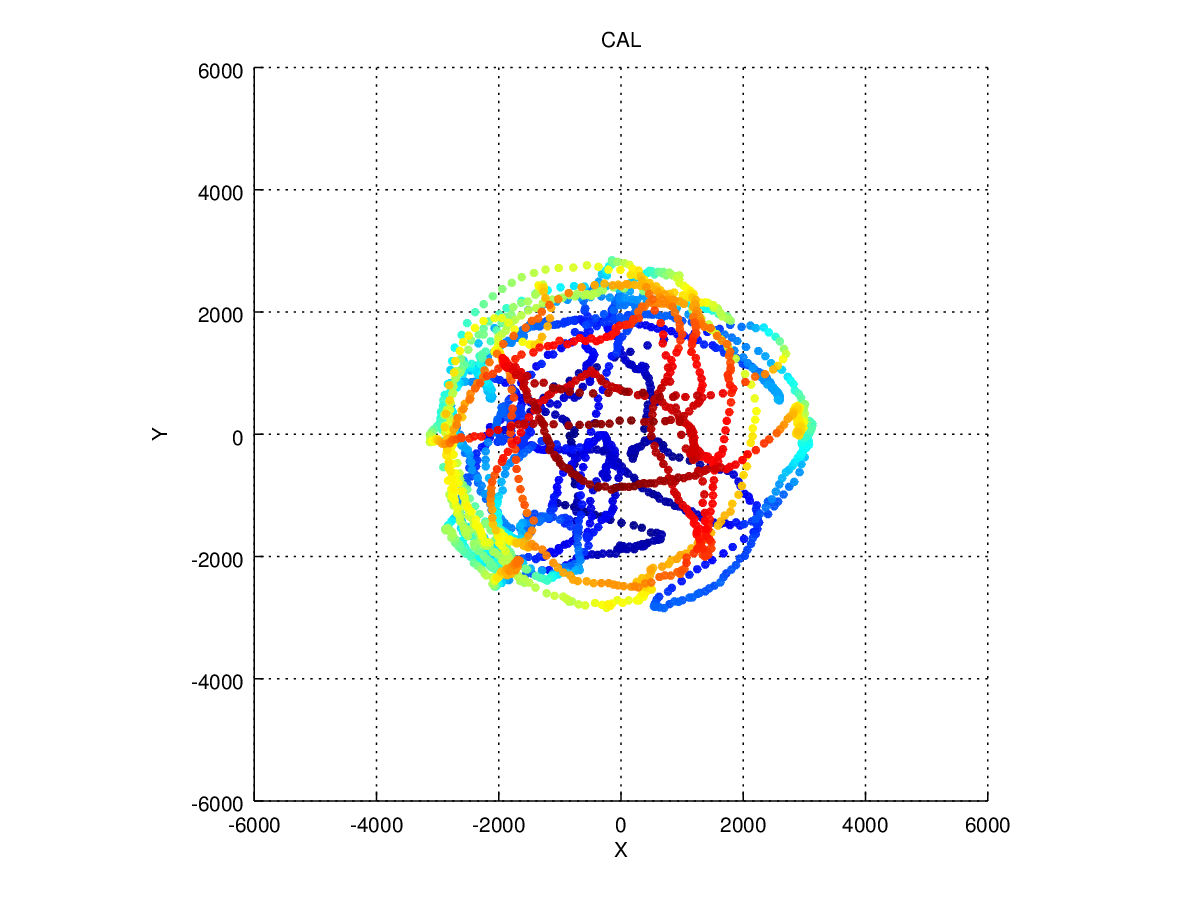
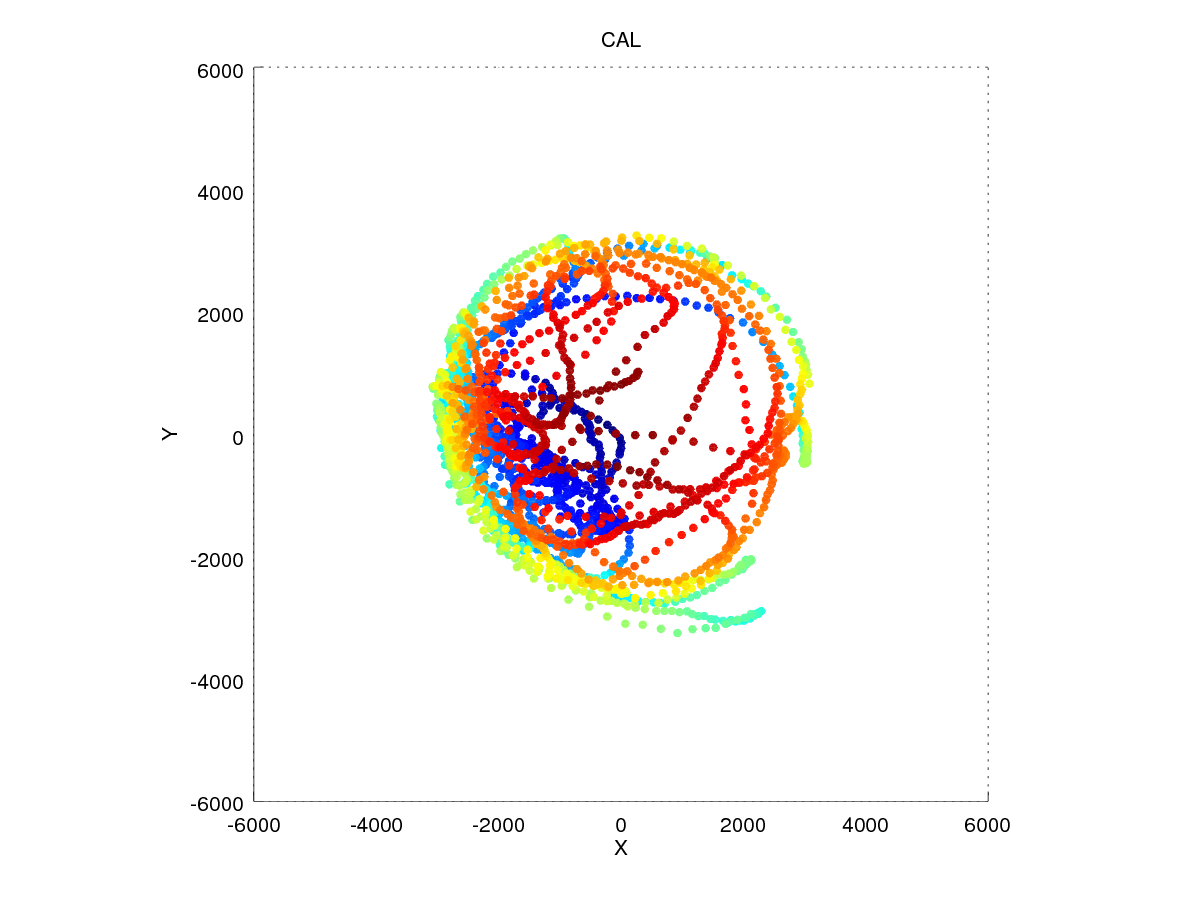
Improved code a bit for Octave and for Python.

diff --git a/magCalOctave/calibrateMag.m b/magCalOctave/calibrateMag.m
@@ -10,7 +10,7 @@ function [ret1, ret2] = calibrateMag(portNr = 0)
        endif
 
 
-       serialPort = serial("\\\\.\\COM5")
+       serialPort = serial("/dev/ttyUSB0")
        pause(1);
 
        set(serialPort, 'baudrate', 115200);
@@ -33,7 +33,7 @@ function [ret1, ret2] = calibrateMag(portNr = 0)
 
               inBufferSTR = ReadToTermination(serialPort);
               inBufferSTR_splitted = strsplit(inBufferSTR, ".");
-              disp(inBufferSTR);
+              % disp(inBufferSTR);
 
               if(size(inBufferSTR_splitted) == [1, 4])
                      if(strcmp(inBufferSTR_splitted{1}, 'MAG') == 0 || strcmp(inBufferSTR_splitted{1}, 'ZMAG') == 0)
@@ -48,7 +48,7 @@ function [ret1, ret2] = calibrateMag(portNr = 0)
        endwhile
        fclose(serialPort);
 
-       disp(notCalibratedData);
+       % disp(notCalibratedData);
        disp('Finished acquiring data.')
 
        AxisLim = 6000;
@@ -78,21 +78,22 @@ function [ret1, ret2] = calibrateMag(portNr = 0)
 
        middleNOCAL = [(xNOCAL_min + xNOCAL_max)/2, (yNOCAL_min + yNOCAL_max)/2, (zNOCAL_min + zNOCAL_max)/2];
        scatter3(middleNOCAL(:,1), middleNOCAL(:,2), middleNOCAL(:,3), 4, [0.4, 1, 0.4], '*');
-       % txt1 = '\leftarrow middle point';
-       % % text(x3,y3,txt3,'HorizontalAlignment','right')
 
-       % meanNOCAL = mean(magDumpNOCAL);
-       % scatter3(meanNOCAL(:,1), meanNOCAL(:,2), meanNOCAL(:,3), 4, [1, 0.4, 0.4], 's');
-       % txt2 = '\leftarrow middle point';
-
-
+       set(gcf(), "visible", "off")
        print -dpng 'imgs/nocal.png';
+       set(gcf(), "visible", "on")
        view([0 0]);
+       set(gcf(), "visible", "off")
        print -dpng 'imgs/nocal_XY.png';
+       set(gcf(), "visible", "on")
        view([90 0]);
+       set(gcf(), "visible", "off")
        print -dpng 'imgs/nocal_XZ.png';
+       set(gcf(), "visible", "on")
        view([0 90]);
+       set(gcf(), "visible", "off")
        print -dpng 'imgs/nocal_YZ.png';
+       set(gcf(), "visible", "on")
 
        calibratedData = notCalibratedData - middleNOCAL(ones(size(notCalibratedData,1),1),:);
        figure(2)
@@ -117,13 +118,21 @@ function [ret1, ret2] = calibrateMag(portNr = 0)
        % yCAL_max = max(yCAL);
        % zCAL_max = max(zCAL);
 
+       set(gcf(), "visible", "off")
        print -dpng 'imgs/cal.png';
+       set(gcf(), "visible", "on")
        view([0 0]);
+       set(gcf(), "visible", "off")
        print -dpng 'imgs/cal_XZ.png';
+       set(gcf(), "visible", "on")
        view([90 0]);
+       set(gcf(), "visible", "off")
        print -dpng 'imgs/cal_YZ.png';
+       set(gcf(), "visible", "on")
        view([0 90]);
+       set(gcf(), "visible", "off")
        print -dpng 'imgs/cal_XY.png';
+       set(gcf(), "visible", "on")
 
        % printf('%020s: %04s:%05d, %04s:%05d, %04s:%05d, %04s:%05d, %04s:%05d, %04s:%05d \r\n',
        %        'NOCAL',

diff --git a/magCalPy/magCal.py b/magCalPy/magCal.py
@@ -61,17 +61,17 @@ def update():
                 data = queue_SRL_2_MAIN.get()
                 queue_SRL_2_MAIN.task_done()
                 # normalize
-                vectorLength = math.sqrt(data[0] * data[0] +
-                                         data[1] * data[1] +
-                                         data[2] * data[2])
-                data[0] /= vectorLength
-                data[1] /= vectorLength
-                data[2] /= vectorLength
+                # vectorLength = math.sqrt(data[0] * data[0] +
+                #                          data[1] * data[1] +
+                #                          data[2] * data[2])
+                # data[0] /= vectorLength
+                # data[1] /= vectorLength
+                # data[2] /= vectorLength
 
                 # rescale
-                data[0] *= sphereRadius
-                data[1] *= sphereRadius
-                data[2] *= sphereRadius
+                # data[0] *= sphereRadius
+                # data[1] *= sphereRadius
+                # data[2] *= sphereRadius
 
                 # make it a sphere
                 # data[0] *= random.choice([-1, 1])

diff --git a/magCalPy/serialcom.py b/magCalPy/serialcom.py
@@ -107,8 +107,12 @@ class SerialCom():
                     # read the data
                     c = self.SP.read(28)
                     c = c.strip()
-                    data = c.split('.')
-                    data = map(int, data)
+
+                    try:
+                        data = c.split('.')
+                        data = map(int, data)
+                    except:
+                        continue
 
                     # data.append(ord(self.SP.read(29)))
 
